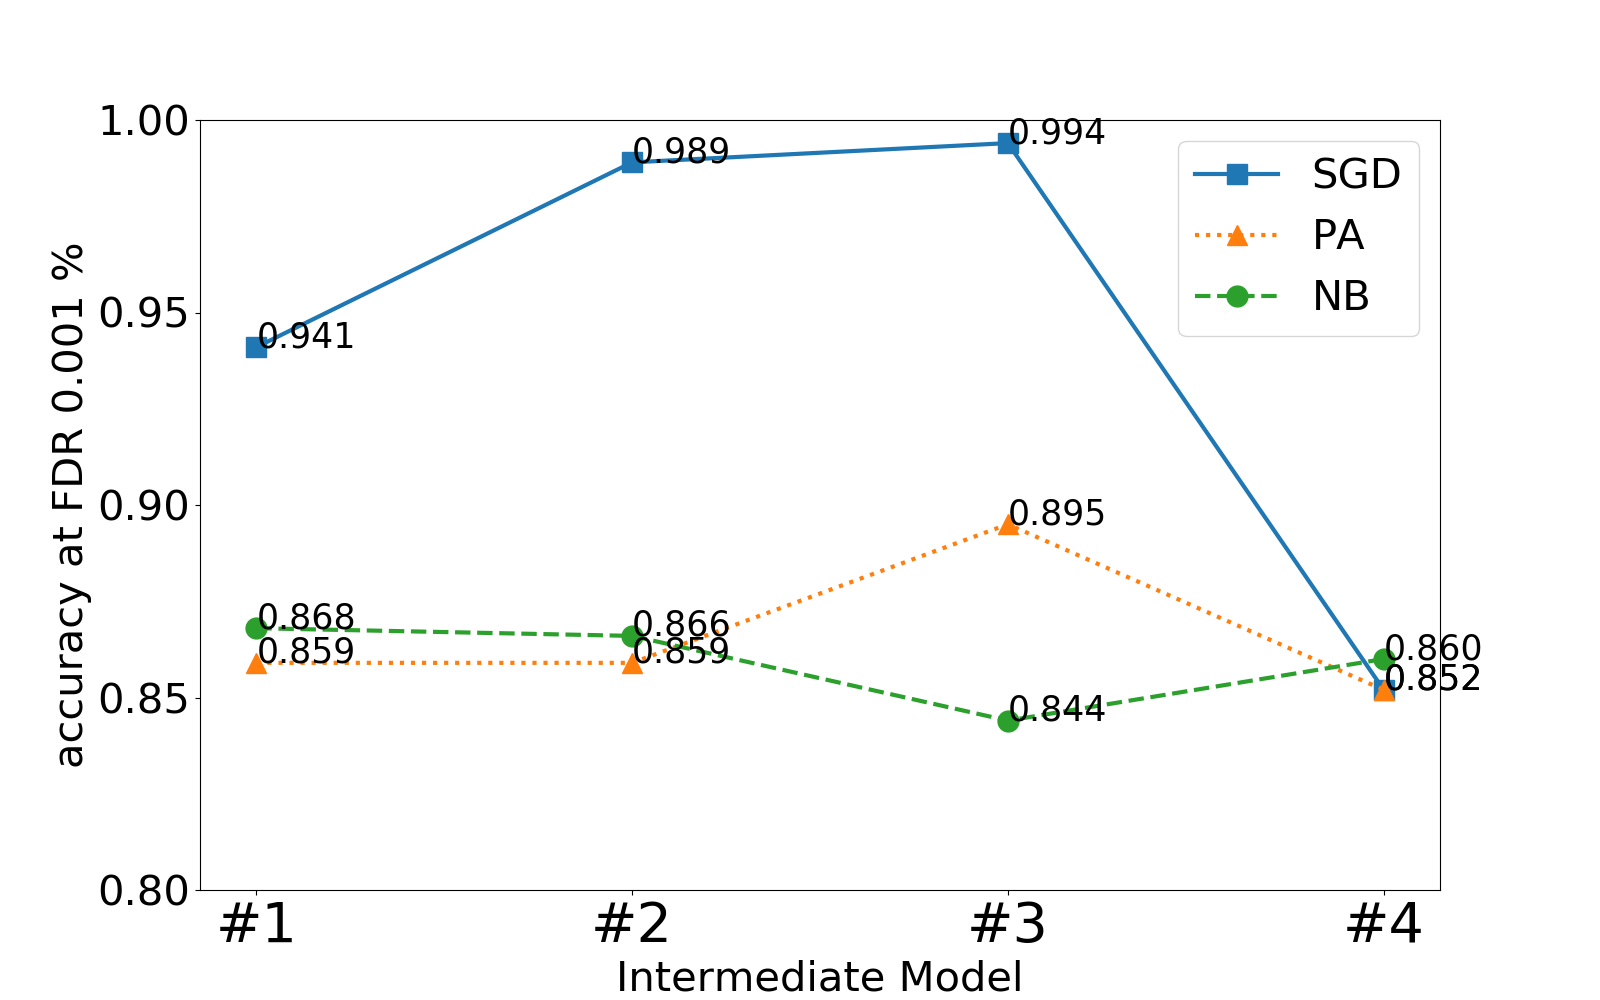
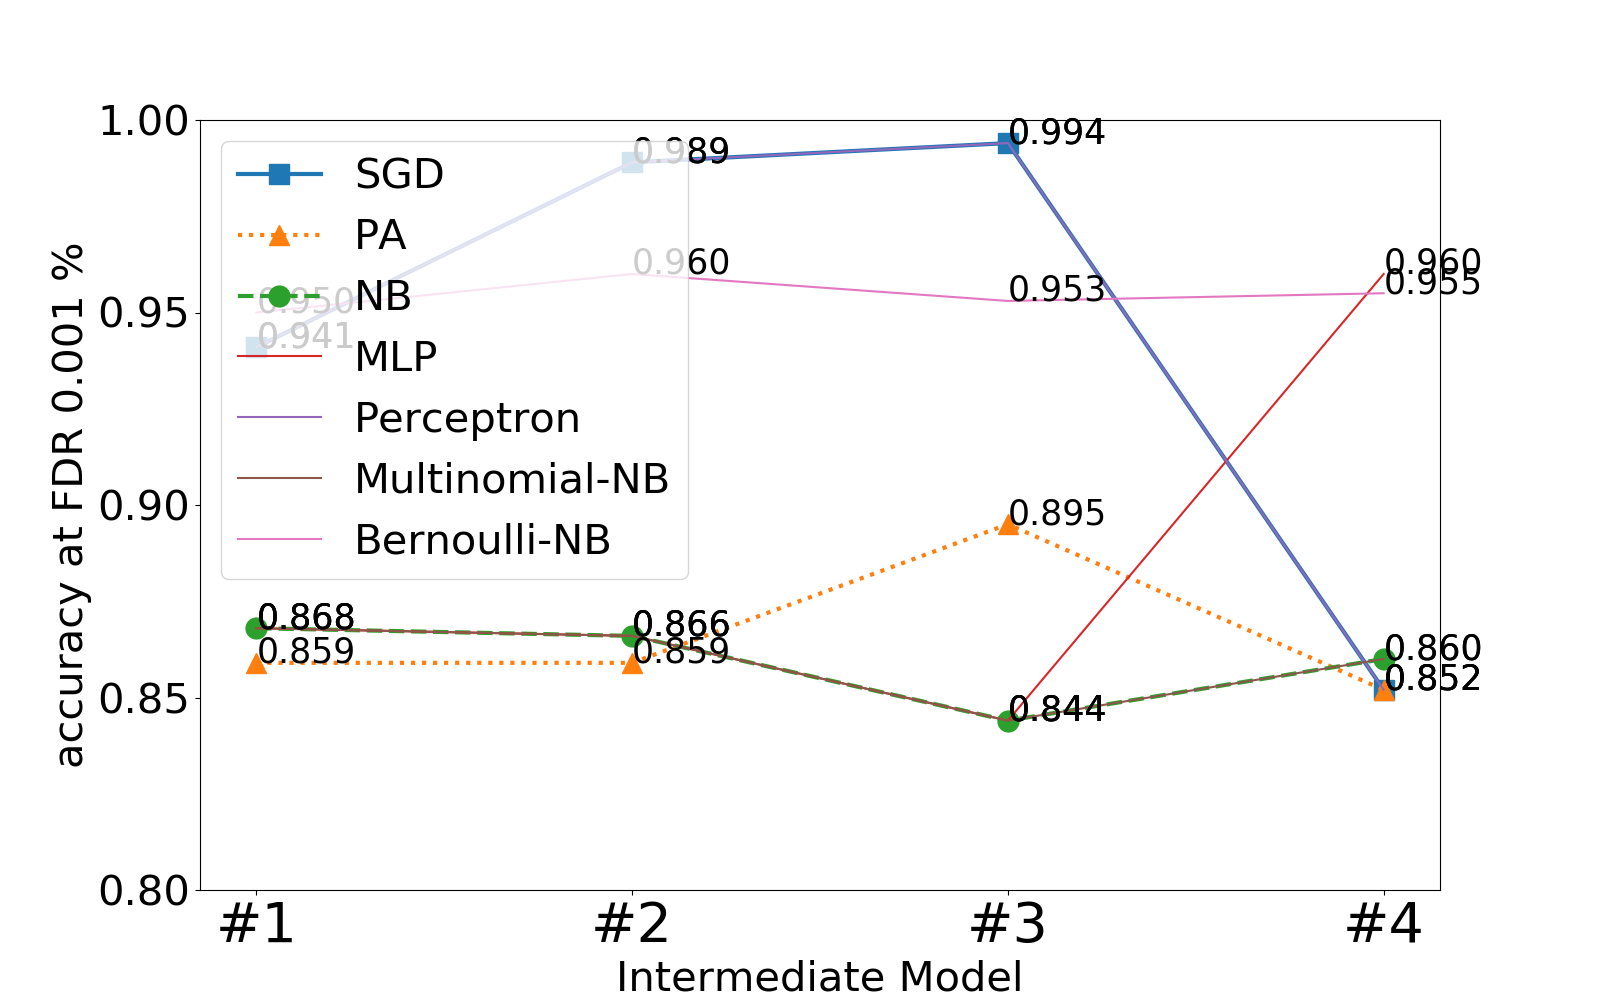
model change : PA -> MLP

diff --git a/experiment_setting.py b/experiment_setting.py
@@ -21,7 +21,7 @@ else:
 g_algorithms = ["SGD", "MLP", "NB"]  # g_algorithms = ["Perceptron", "SGD", "PA", "NB", "MLP"]
 g_algorithms = ["SGD", "PA", "NB", "MLP"]
 g_algorithms = ["SGD", "PA", "NB"]
-
+g_algorithms = ["SGD", "PA", "NB", "MLP", "Perceptron", "Multinomial-NB", "Bernoulli-NB"]
 
 g_fdr_alpha_list = [0.001]  # g_fdr_alpha_list = [0.001, 0.01, 0.1, 1]
 g_n_iter = 5

diff --git a/main.py b/main.py
@@ -492,5 +492,5 @@ def main():
 
 if __name__ == "__main__":
     print("HELLO MAIN")
-    # main()
+    main()
     print("FIRST in place 2")
